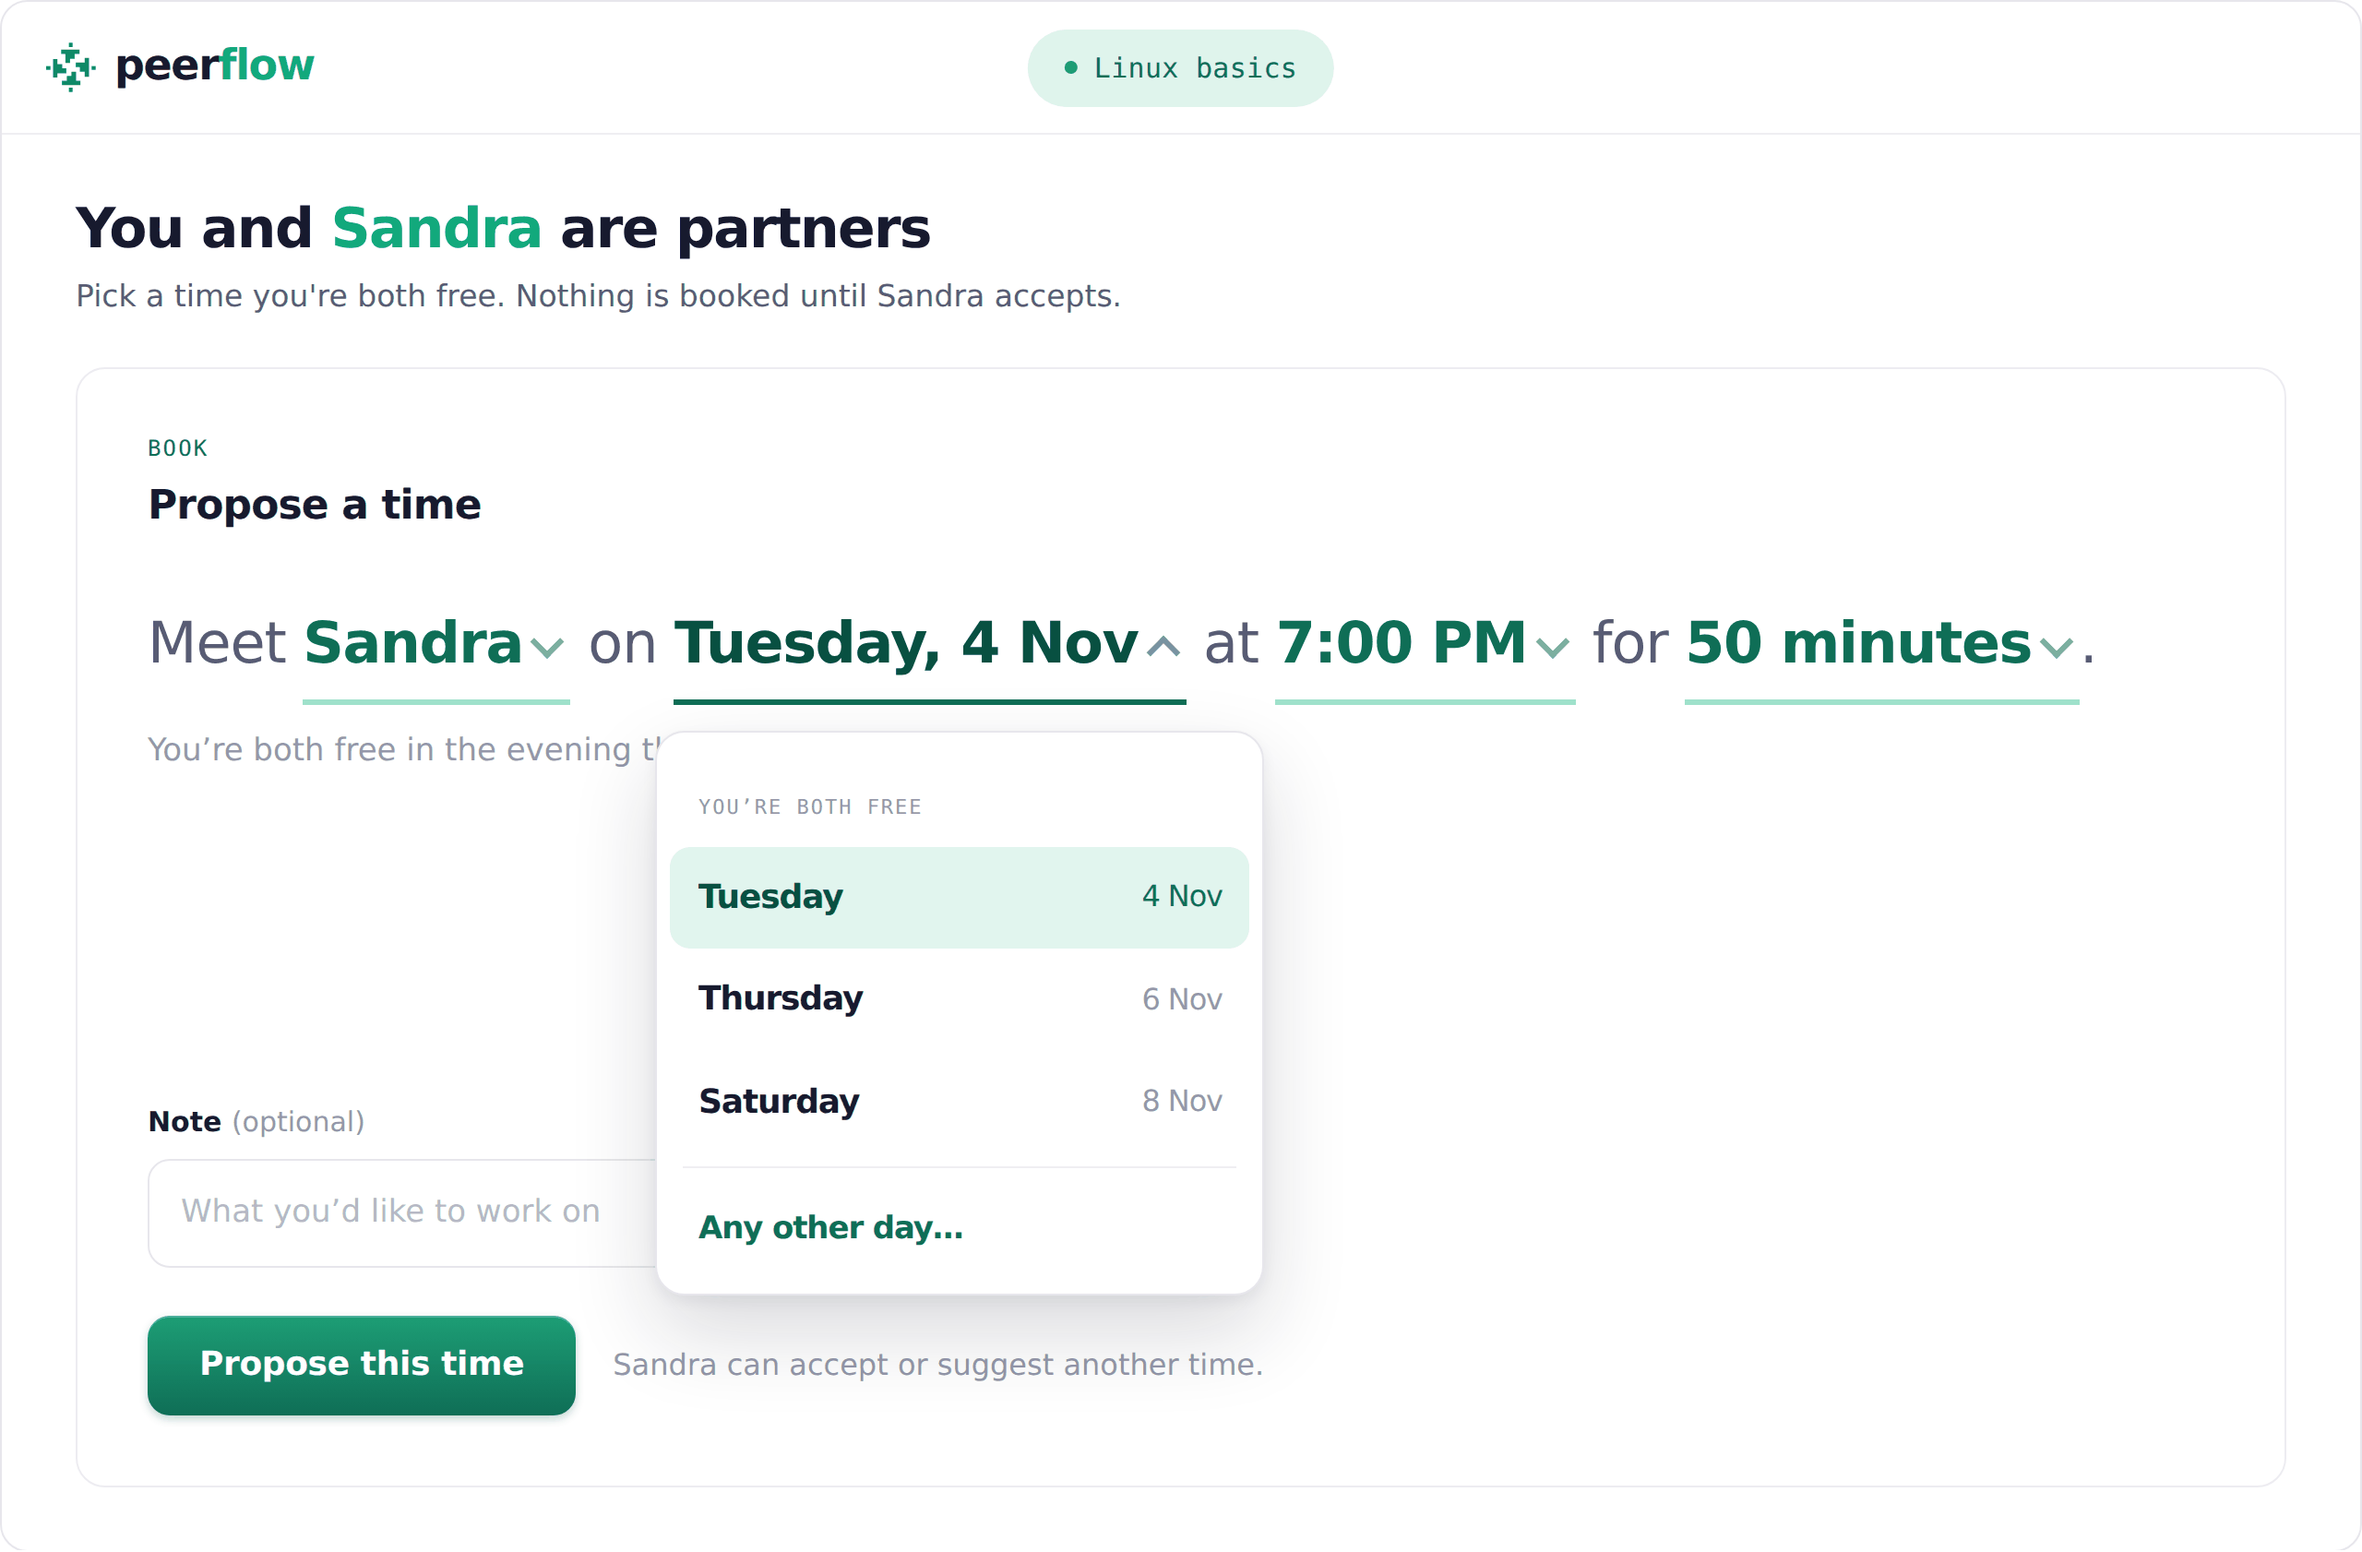
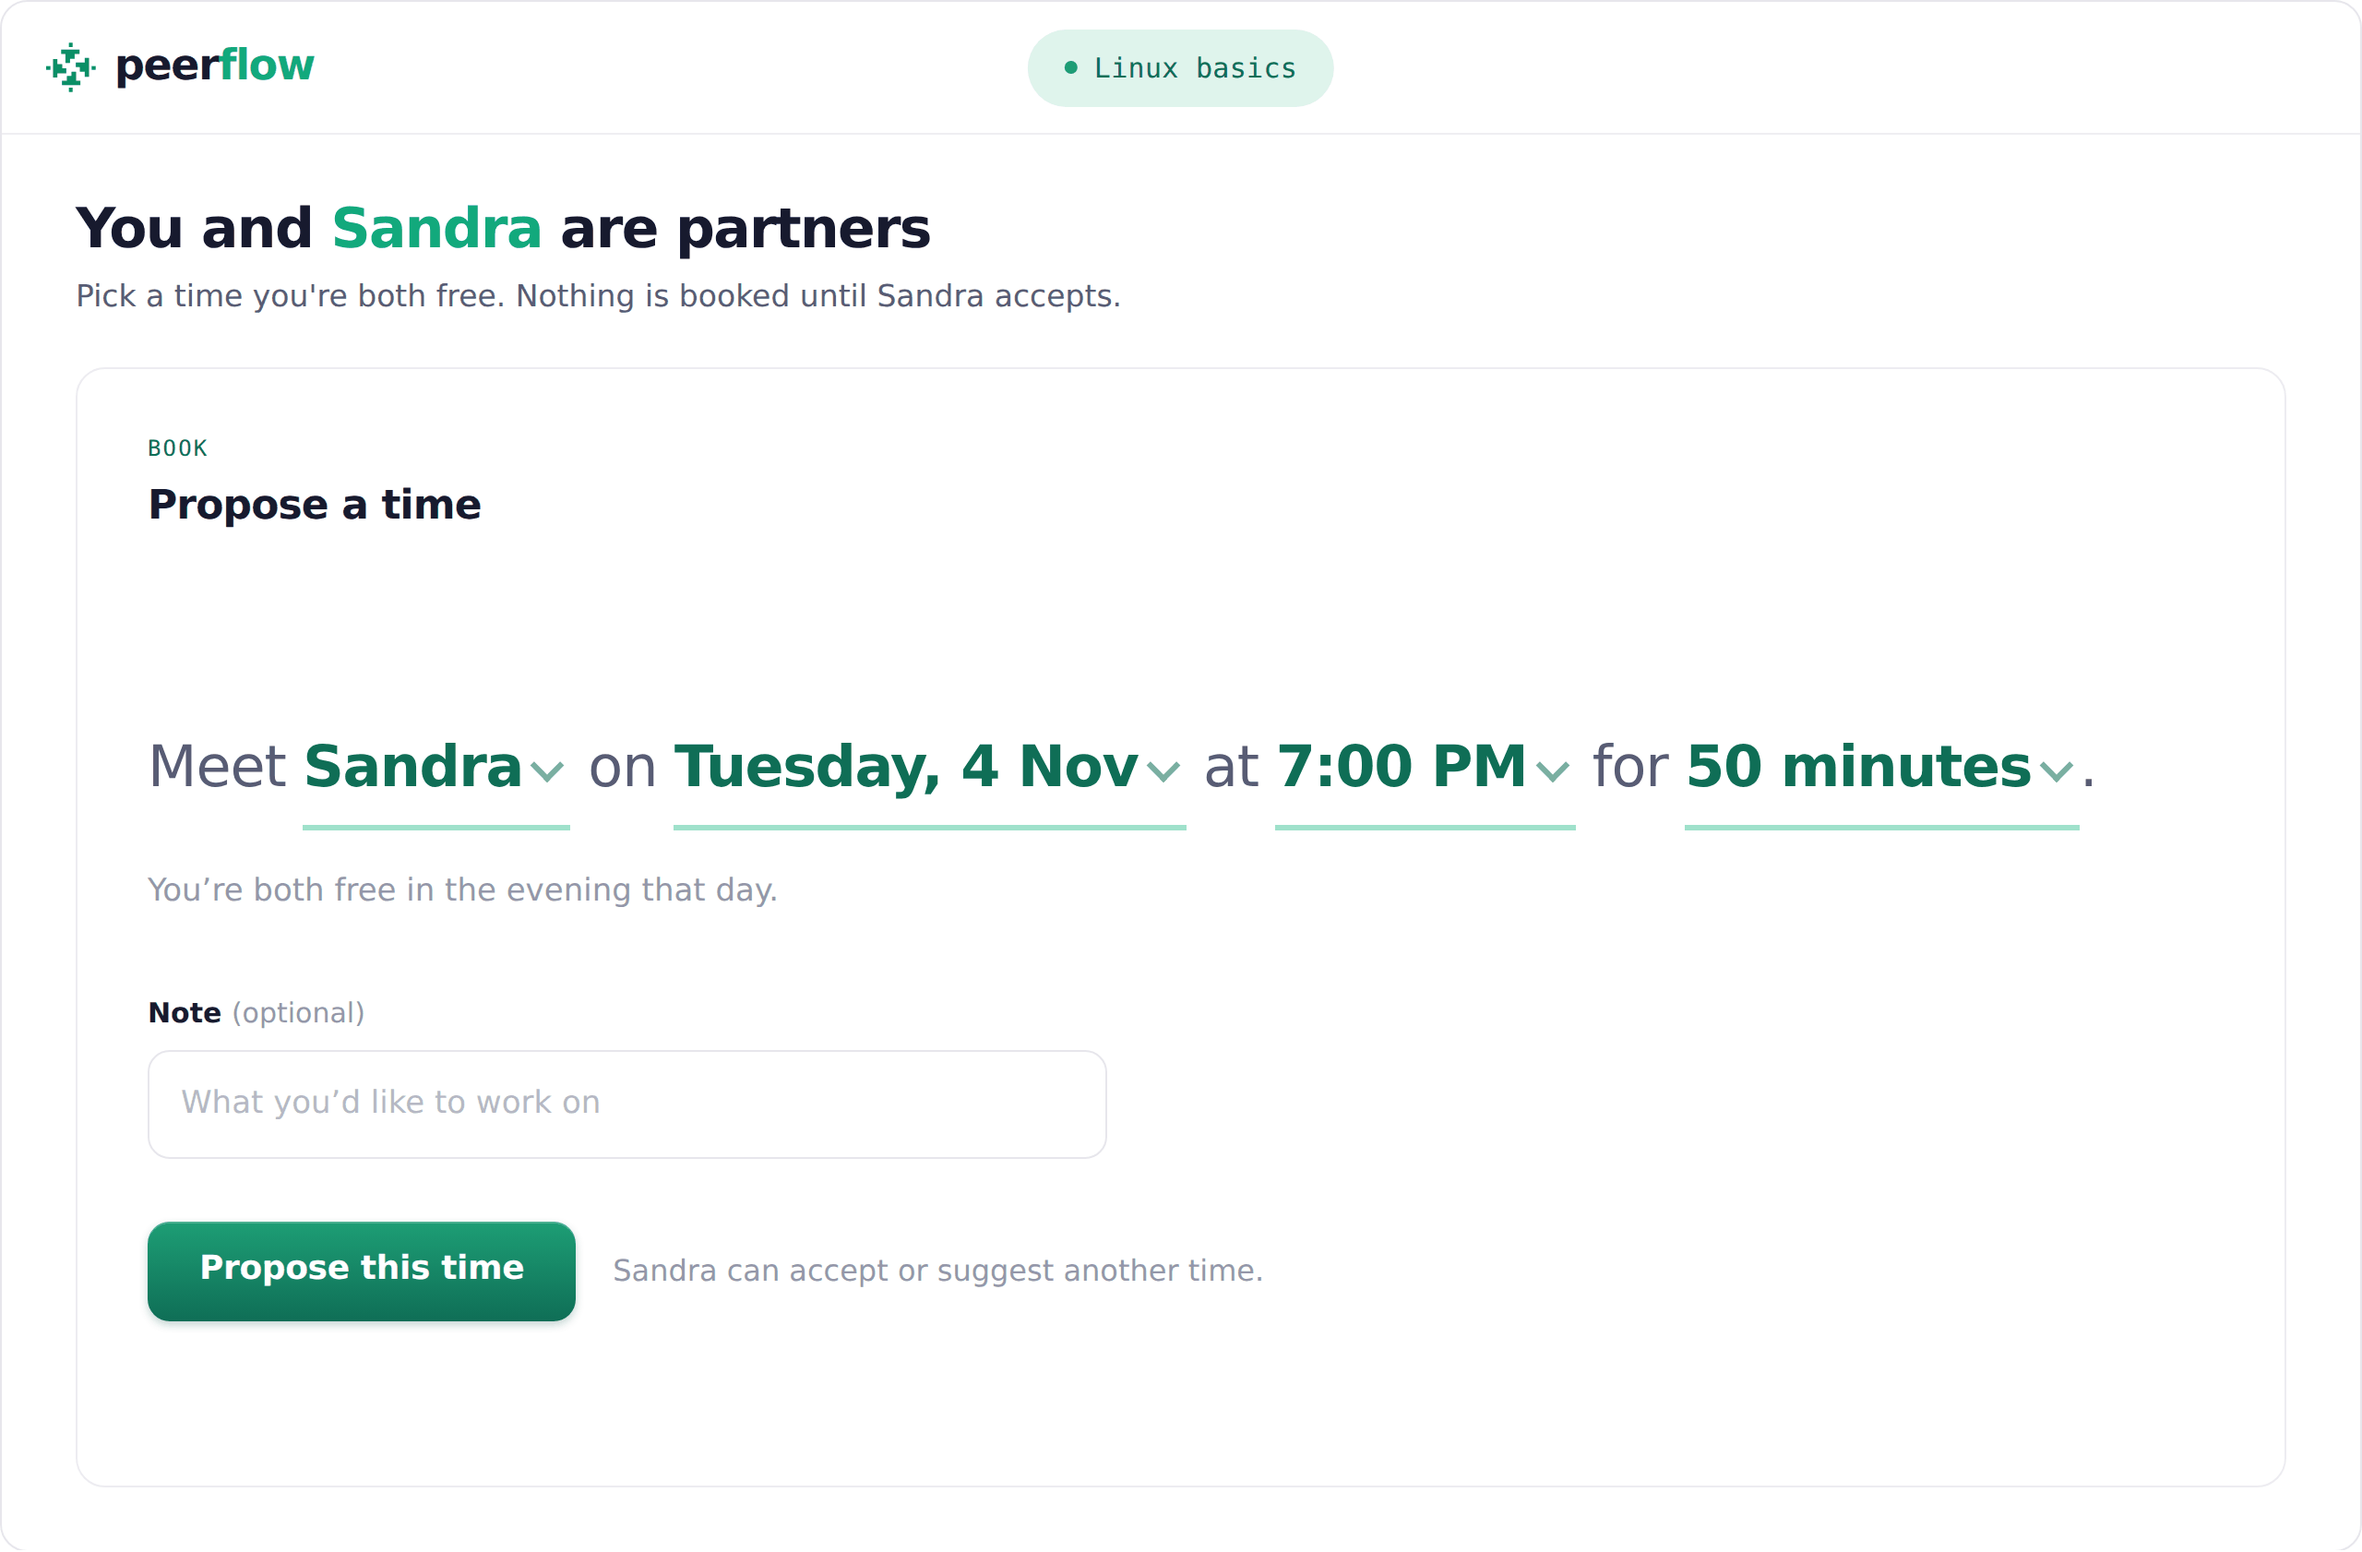
Close the day menu in the scheduling frame
The open list of Tuesday, Thursday and Saturday was doing two jobs at once —
showing the sentence and showing the picker — and the picker won, because a
white panel with a shadow takes the eye first. The frame is about the
sentence. Every word still carries its chevron, so it is visibly a control
without one of them being open.

The form centres in the card now. With a 460px menu gone there was a hole in
the middle where it used to sit.

Claude-Session: https://claude.ai/code/session_01YKC4UuyUEYgQuEBKY8hLuJ

diff --git a/assets/how-frames.html b/assets/how-frames.html
@@ -70,7 +70,7 @@
     flex:1;min-height:0;display:flex;flex-direction:column}
   .skick{font-family:var(--mono);font-size:12px;letter-spacing:.09em;text-transform:uppercase;
     color:#0F6E56;margin:0 0 4px}
-  .stitle{font-size:22px;font-weight:700;letter-spacing:-.02em;margin:0 0 30px}
+  .stitle{font-size:22px;font-weight:700;letter-spacing:-.02em;margin:0 0 46px}
   .ssent{font-size:31px;line-height:1.75;font-weight:500;color:#585C74;letter-spacing:-.018em;margin:0}
   .sw{position:relative;display:inline-block}
   .strig{font-size:31px;font-weight:800;color:#0F6E56;letter-spacing:-.024em;
@@ -80,7 +80,7 @@
     transform:translateY(-75%) rotate(45deg)}
   .strig.open{color:#085041;border-bottom-color:#0F6E56}
   .strig.open::after{transform:translateY(-30%) rotate(-135deg)}
-  .sline{margin:12px 0 0;font-size:17px;color:#9497A9}
+  .sline{margin:20px 0 0;font-size:17px;color:#9497A9}
 
   .smenu{position:absolute;top:calc(100% + 14px);left:-10px;width:330px;z-index:5;
     background:#fff;border:1px solid #E7E6EC;border-radius:16px;padding:7px;
@@ -95,12 +95,13 @@
   .smrow.on .r{color:#0F6E56}
   .smrow.mild{color:#0F6E56;font-size:17px}
 
-  .snote{margin:38px 0 0;padding-top:10px}
+  .sform{margin:auto 0}
+  .snote{margin:40px 0 0}
   .snote label{display:block;font-size:15px;font-weight:600;margin-bottom:8px}
   .snote label span{color:#9497A9;font-weight:400}
   .sbox{border:1px solid #E7E6EC;border-radius:12px;padding:15px 17px;font-size:17px;
     color:#B6B8C4;max-width:520px}
-  .sacts{display:flex;align-items:center;gap:20px;margin-top:26px}
+  .sacts{display:flex;align-items:center;gap:20px;margin-top:34px}
   .sgo{height:54px;border-radius:12px;display:inline-flex;align-items:center;padding:0 28px;
     font-size:18px;font-weight:700;letter-spacing:-.01em;color:#fff;
     background:linear-gradient(180deg,#1D9E75,#0F6E56);
@@ -187,28 +188,20 @@
       <p class="skick">Book</p>
       <p class="stitle">Propose a time</p>
 
-      <p class="ssent">Meet <span class="strig">Sandra</span> on
-        <span class="sw"><span class="strig open">Tuesday, 4 Nov</span>
-          <span class="smenu">
-            <span class="smh">You’re both free</span>
-            <span class="smrow on">Tuesday<span class="r">4 Nov</span></span>
-            <span class="smrow">Thursday<span class="r">6 Nov</span></span>
-            <span class="smrow">Saturday<span class="r">8 Nov</span></span>
-            <span class="smsep"></span>
-            <span class="smrow mild">Any other day…</span>
-          </span>
-        </span> at
+      <div class="sform"><p class="ssent">Meet <span class="strig">Sandra</span> on
+        <span class="strig">Tuesday, 4 Nov</span> at
         <span class="strig">7:00 PM</span> for
         <span class="strig">50 minutes</span>.</p>
       <p class="sline">You’re both free in the evening that day.</p>
 
-      <div class="snote" style="margin-top:auto">
+      <div class="snote">
         <label>Note <span>(optional)</span></label>
         <div class="sbox">What you’d like to work on</div>
       </div>
       <div class="sacts">
         <span class="sgo">Propose this time</span>
         <span class="shint">Sandra can accept or suggest another time.</span>
+      </div>
       </div>
     </div>
   </div>
